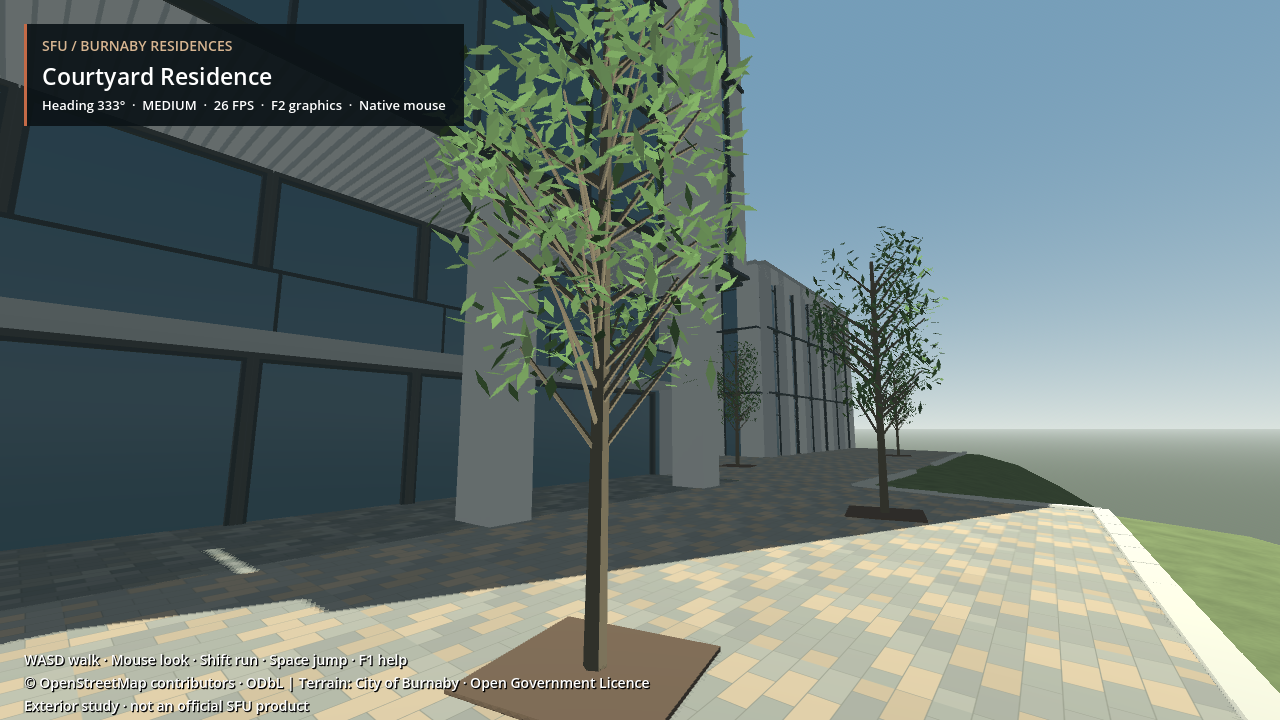
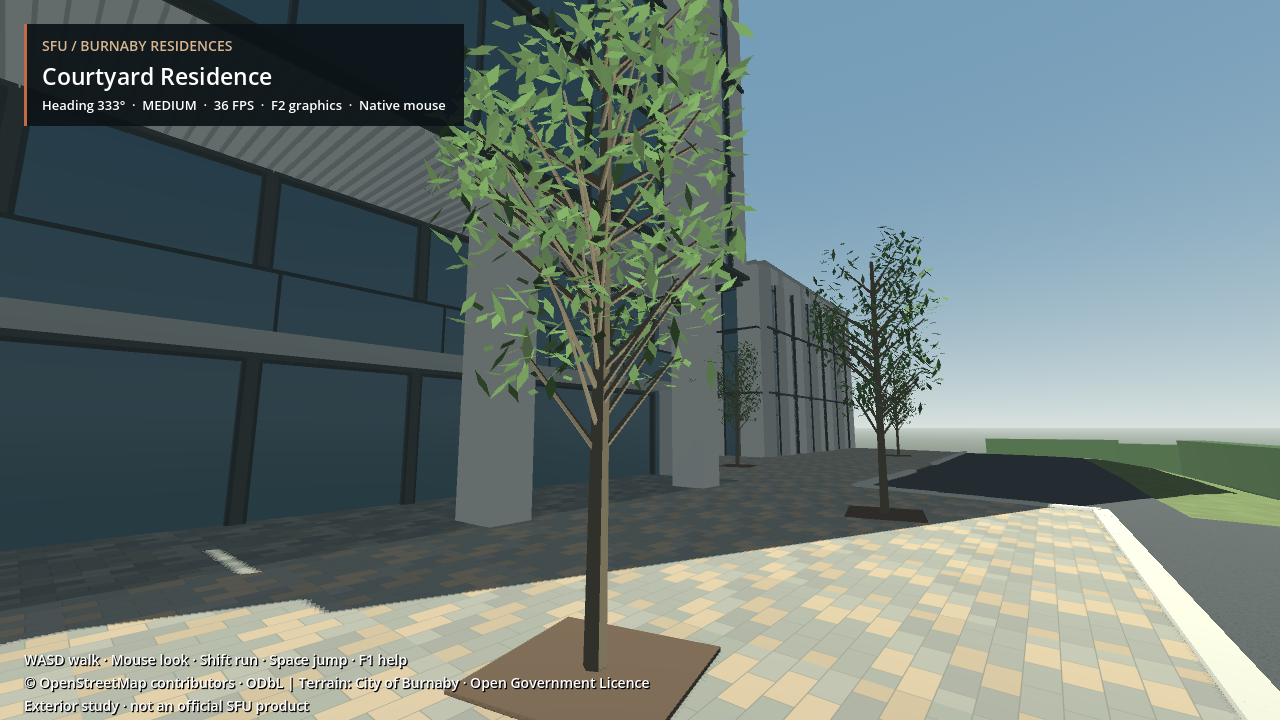
Grade Courtyard asphalt apron into the existing approach

diff --git a/scripts/build_courtyard_grade.py b/scripts/build_courtyard_grade.py
@@ -10,19 +10,22 @@ cyr=next(b for b in buildings if b['id']=='CYR')
 inner=[[342.884,10.63],[346.41,-5.671],[338.452,-7.628],[341.013,-18.948],[344.415,-18.136],[347.715,-34.393]]
 outer=[[355.2,-32.6],[352.0,-17.0],[349.5,-6.0],[354.0,-4.0],[350.5,12.4]]
 poly=inner+outer
+# Photo0058: asphalt directly adjoins the curb, not an earthen bank.
+# Photo-fit apron and service-lane transition are estimates, not mapped road edits.
+apron=[[350.5,12.4],[354.0,-4.0],[349.5,-6.0],[352.0,-17.0],[355.2,-32.6],[361.2,-31.2],[358.0,-15.6],[355.5,-4.6],[360.0,-2.6],[356.5,13.8],[353.5,24.0],[346.5,22.4]]
 base=g['pads']['CYR']['height']
 changes=[]
 for k,h in enumerate(g['heights']):
  x=g['origin_x']+k%g['width']*g['step']; z=g['origin_z']+k//g['width']*g['step']
- if not 325<x<370 or not -50<z<27: continue
- d=distance(x,z,poly)
- if d>=12: continue
+ if not 310<x<382 or not -54<z<42: continue
+ d=min(distance(x,z,poly),distance(x,z,apron))
+ if d>=18: continue
  if any(distance(x,z,b['footprint'])<3 for b in buildings if b['id']!='CYR'): continue
  # Preserve original building footprint/pad; approach at its existing height.
  if distance(x,z,cyr['footprint'])==0: continue
  edge=distance(x,z,cyr['footprint'])
- target=base-min(edge,8)*0.015
- weight=max(0,1-d/12);weight=weight*weight*(3-2*weight)
+ target=base-min(edge,8)*0.015-min(distance(x,z,poly),8)*0.02
+ weight=max(0,1-d/18);weight=weight*weight*(3-2*weight)
  changes.append([k,round(h+(target-h)*weight,4)])
-(r/'game/data/courtyard_grade.json').write_text(json.dumps({'source':'DIALOG0058 eastern paved forecourt; grades and extent estimated from existing CYR foundation','polygon':poly,'outer_edge':outer,'blend_m':12,'crossfall':0.015,'changes':changes},separators=(',',':')))
+(r/'game/data/courtyard_grade.json').write_text(json.dumps({'source':'DIALOG0058 eastern paved forecourt; grades and extent estimated from existing CYR foundation','polygon':poly,'outer_edge':outer,'asphalt_apron':apron,'blend_m':18,'crossfall':0.015,'changes':changes},separators=(',',':')))
 print('Courtyard finish grade:',len(changes),'samples; source unchanged')

diff --git a/docs/PHASE2_HANDOFF.md b/docs/PHASE2_HANDOFF.md
@@ -1,3 +1,5 @@
+> **Newer checkpoint2026-10-21:** Courtyard asphalt apron verified294 physics/376 terrain parity/524 routes. See final entry; next evidence-backed detail: Beedie spectator seating from official reference, then remaining audit items.
+
 > **Latest resume point — 2026-10-21:** McTaggart west connector verified in1622eee:284 physics,376 terrain parity,506 route checkpoints. Shell photo emergency-phone detail subsequently GPU-inspected. Read the final two entries below, then PHASE2_COMPLETION_AUDIT.md; historical “in progress” entries are superseded where a later verified entry exists. Next priority: Courtyard forecourt-to-road grade transition (up to4.4m estimated fill, needs current photo/level reconciliation); then Shell surrounding stairs, remaining sports fixtures, townhouse annex identities and performance. Preserve approved E/W, input, registry and user photo metadata changes.
 
 # Phase 2 handoff — 2026-10-18
@@ -135,3 +137,9 @@ Reproduce: bash scripts/verify_game.sh; bash scripts/run_game.sh -- --capture-mc
 
 ## Shell photo detail verified — 2026-10-21
 Added decorative blue emergency-phone column/panel, amber band and light mast in front of the north timber screen, directly observed in handpicked Shell.jpg. Exact XZ/size estimated; no interactions, point lights or collision changes. Added second capture-shellmain eye-level view; shellmain_1 inspected, column grounded and clear of existing walk/table. Final GPU launch uses GTX1650 Compatibility. Full physics/routes baseline remains McTaggart checkpoint1622eee (284/376/506); this following detail changes visuals only, not physics. Remaining Shell stairs/grade/three-visible-floor issue unchanged.
+
+## Courtyard asphalt/grade continuation — in progress2026-10-21
+Re-viewed official DIALOG0058. Photo shows asphalt directly against low pale curb; prior terrain blend ended too close to paving. Added estimated asphalt apron sidecar, widened local grade transition to18m (882 samples) without source/pad edits, and runtime playable-boundary extension around apron. Original site/road data unchanged. New18point road/apron/forecourt return route. Verification /tmp/courtyard-apron-verify.log and capture in progress; do not mark complete until final results. Exact site-road geometry and finish elevations remain estimated.
+
+## VERIFIED Courtyard asphalt apron — 2026-10-21
+Implemented photo-supported asphalt-to-low-curb adjacency at east forecourt. Separate courtyard grade overlay now882 samples with18m outer blend; original terrain grid/building pads/source roads unchanged. Runtime boundary expanded locally around estimated apron, avoiding an invisible reset on its east edge. New18point service-lane/apron/forecourt return route passes; all524 route checkpoints pass. Final physics294 checks/376 terrain parity samples pass, including10 new road-contact/boundary checks. Runtime preservation validator passes. Four eye-level forecourt views inspected on GTX1650 Compatibility; road now meets forecourt without prior steep exposed bank. Apron extent, grade and service tie-in are estimated from photo0058 and existing foundation, not surveyed. Outer study-boundary wall/context, curb-cut precision, red pole screen and fine planting still need refinement. Concurrent capture/verification timings are not a reliable performance benchmark.

diff --git a/docs/PHASE2_COMPLETION_AUDIT.md b/docs/PHASE2_COMPLETION_AUDIT.md
@@ -15,10 +15,10 @@ Latest user instruction: work through all deferred remarks; preserve accepted ge
 | North to Dining Commons | Two-flight stair plus guarded upper turn now connects to mapped west door10785299803. Ascent/descent13/13 and landing turn11/11 passed; eye-level inspected. Dimensions/finish estimated | Verified first pass |
 | North gallery to parking | Mapped OSM1159793611 stair with rails/landings added; descent/return13/13 passed and eye-level reviewed. Width/count estimated; separate from Dining and courtyard photo | Verified first pass |
 | North surrounding details | Red service doors, roof/fins, curved beds, pavers, drains, stairs/rails, door/sign localization | Partial |
-| Courtyard east portico | Implemented and traversable; eastern forecourt now locally graded and paved with curbs/tree pits,434-route checkpoint passed; road-edge transition still unfinished | Partial |
+| Courtyard east portico | Implemented and traversable; eastern forecourt now locally graded and paved with curbs/tree pits,434-route checkpoint passed; photo-supported asphalt apron/local grade transition implemented;524 routes pass; exact curb/road survey pending | Partial |
 | Courtyard inner gallery | Lower court-facing recess, piers, soffit fins, closed rear glazing, grey pavers added; physical entry/crossing/exit passed. Dimensions estimated | Verified first pass |
 | Courtyard West Mall bridge | South-facing glazed exterior link now tied to mapped West Mall parkade edge; inspected/physics passed. Exact attachment and far-end support provisional; full parkade unmodeled | Verified first pass |
-| Courtyard landscape/upper details | Eastern pavers/curbs/four young trees added; road tie-in, lowrise terrace/penthouse and precise entrance mapping remain | Partial |
+| Courtyard landscape/upper details | Eastern pavers/curbs/four young trees added; road tie-in first pass verified; lowrise terrace/penthouse, red pole screen and precise entrance mapping remain | Partial |
 | Shell surrounds | North timber screen/concrete tables retained; glazed annex/sloped roof/timber pergola added from Shell.jpg with11point walk test. Photo-based blue emergency-phone/light added and eye-level inspected. Exact surrounding stairs/grade/trees still pending | Partial |
 | Shell grade/entry | Mapped main entry6925149272 implemented on long west frontage with asphalt approach;7point route passed. Four total vs three visible floors and corner screen remain unresolved | Partial |
 | McTaggart approach | User confirms west connector closer to East Tower. Fitted photo entry, descending stair/rails,52-sample local grade, boulders/planting and route tie-in;284 physics/506 routes pass. Exact curved lobby and three-visible/four-total floor conflict remain | Verified estimated approach |

diff --git a/docs/PHASE2_COURTYARD_PHOTO_REVIEW.md b/docs/PHASE2_COURTYARD_PHOTO_REVIEW.md
@@ -29,3 +29,9 @@ Implemented the distinct courtyard-facing lower exterior gallery (3.1m high,3.6m
 Full verify_game.sh PASS:224 physics checks,376 terrain parity samples,412 route checkpoints (including5 new gallery crossing points),zero failures. Family validator passes. Paving added after collision tests is visual-only; final --capture-gallery launches the final scene for eye-level review. Exact column count/spacing and ground elevations remain estimates; this does not complete West Mall bridge or eastern forecourt grading.
 McTaggart clarification this window: user confirms photographed descending approach faces residences/Dining Commons. Current mapped entrance approach varies only~0.1m over28m, inconsistent with photo's pronounced stair descent. Do not add a fictitious hump or silently move the whole building; resolve its entry-level/graded apron before stair implementation.
 Diagnostics: original requested outer wsl_diagnostics.sh absent; ran current scripts/check_wsl.sh. Godot4.7.2 Standard found. glxinfo absent from PATH, no dependency installed. GPU game log confirms Compatibility/OpenGL D3D12 NVIDIA GTX1650.
+
+## Courtyard asphalt/grade continuation — in progress2026-10-21
+Re-viewed official DIALOG0058. Photo shows asphalt directly against low pale curb; prior terrain blend ended too close to paving. Added estimated asphalt apron sidecar, widened local grade transition to18m (882 samples) without source/pad edits, and runtime playable-boundary extension around apron. Original site/road data unchanged. New18point road/apron/forecourt return route. Verification /tmp/courtyard-apron-verify.log and capture in progress; do not mark complete until final results. Exact site-road geometry and finish elevations remain estimated.
+
+## VERIFIED Courtyard asphalt apron — 2026-10-21
+Implemented photo-supported asphalt-to-low-curb adjacency at east forecourt. Separate courtyard grade overlay now882 samples with18m outer blend; original terrain grid/building pads/source roads unchanged. Runtime boundary expanded locally around estimated apron, avoiding an invisible reset on its east edge. New18point service-lane/apron/forecourt return route passes; all524 route checkpoints pass. Final physics294 checks/376 terrain parity samples pass, including10 new road-contact/boundary checks. Runtime preservation validator passes. Four eye-level forecourt views inspected on GTX1650 Compatibility; road now meets forecourt without prior steep exposed bank. Apron extent, grade and service tie-in are estimated from photo0058 and existing foundation, not surveyed. Outer study-boundary wall/context, curb-cut precision, red pole screen and fine planting still need refinement. Concurrent capture/verification timings are not a reliable performance benchmark.

diff --git a/docs/PHASE2_STATUS.md b/docs/PHASE2_STATUS.md
@@ -137,3 +137,9 @@ Reproduce: bash scripts/verify_game.sh; bash scripts/run_game.sh -- --capture-mc
 
 ## Shell photo detail verified — 2026-10-21
 Added decorative blue emergency-phone column/panel, amber band and light mast in front of the north timber screen, directly observed in handpicked Shell.jpg. Exact XZ/size estimated; no interactions, point lights or collision changes. Added second capture-shellmain eye-level view; shellmain_1 inspected, column grounded and clear of existing walk/table. Final GPU launch uses GTX1650 Compatibility. Full physics/routes baseline remains McTaggart checkpoint1622eee (284/376/506); this following detail changes visuals only, not physics. Remaining Shell stairs/grade/three-visible-floor issue unchanged.
+
+## Courtyard asphalt/grade continuation — in progress2026-10-21
+Re-viewed official DIALOG0058. Photo shows asphalt directly against low pale curb; prior terrain blend ended too close to paving. Added estimated asphalt apron sidecar, widened local grade transition to18m (882 samples) without source/pad edits, and runtime playable-boundary extension around apron. Original site/road data unchanged. New18point road/apron/forecourt return route. Verification /tmp/courtyard-apron-verify.log and capture in progress; do not mark complete until final results. Exact site-road geometry and finish elevations remain estimated.
+
+## VERIFIED Courtyard asphalt apron — 2026-10-21
+Implemented photo-supported asphalt-to-low-curb adjacency at east forecourt. Separate courtyard grade overlay now882 samples with18m outer blend; original terrain grid/building pads/source roads unchanged. Runtime boundary expanded locally around estimated apron, avoiding an invisible reset on its east edge. New18point service-lane/apron/forecourt return route passes; all524 route checkpoints pass. Final physics294 checks/376 terrain parity samples pass, including10 new road-contact/boundary checks. Runtime preservation validator passes. Four eye-level forecourt views inspected on GTX1650 Compatibility; road now meets forecourt without prior steep exposed bank. Apron extent, grade and service tie-in are estimated from photo0058 and existing foundation, not surveyed. Outer study-boundary wall/context, curb-cut precision, red pole screen and fine planting still need refinement. Concurrent capture/verification timings are not a reliable performance benchmark.
